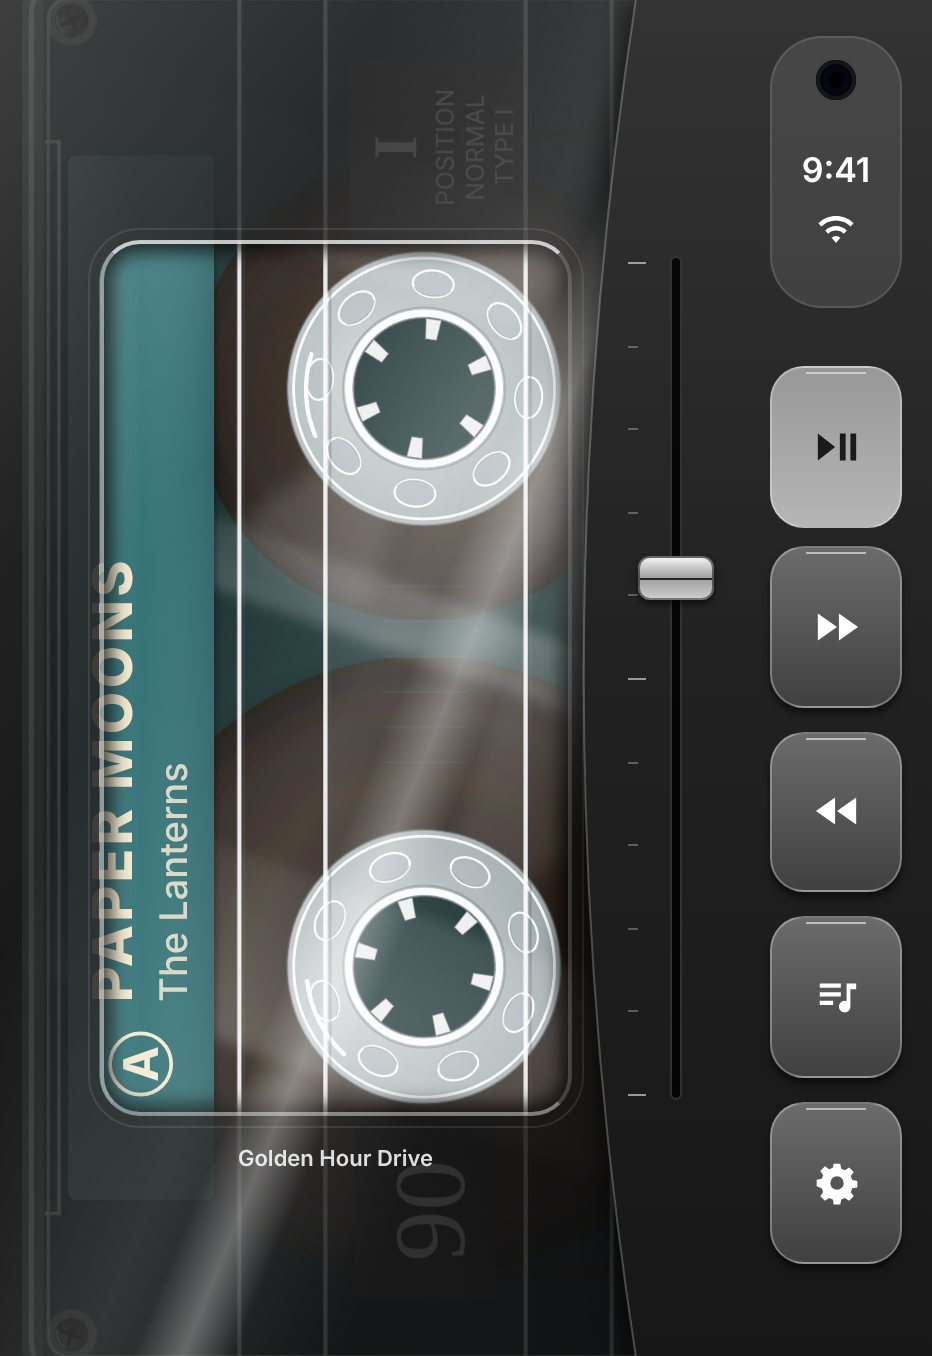
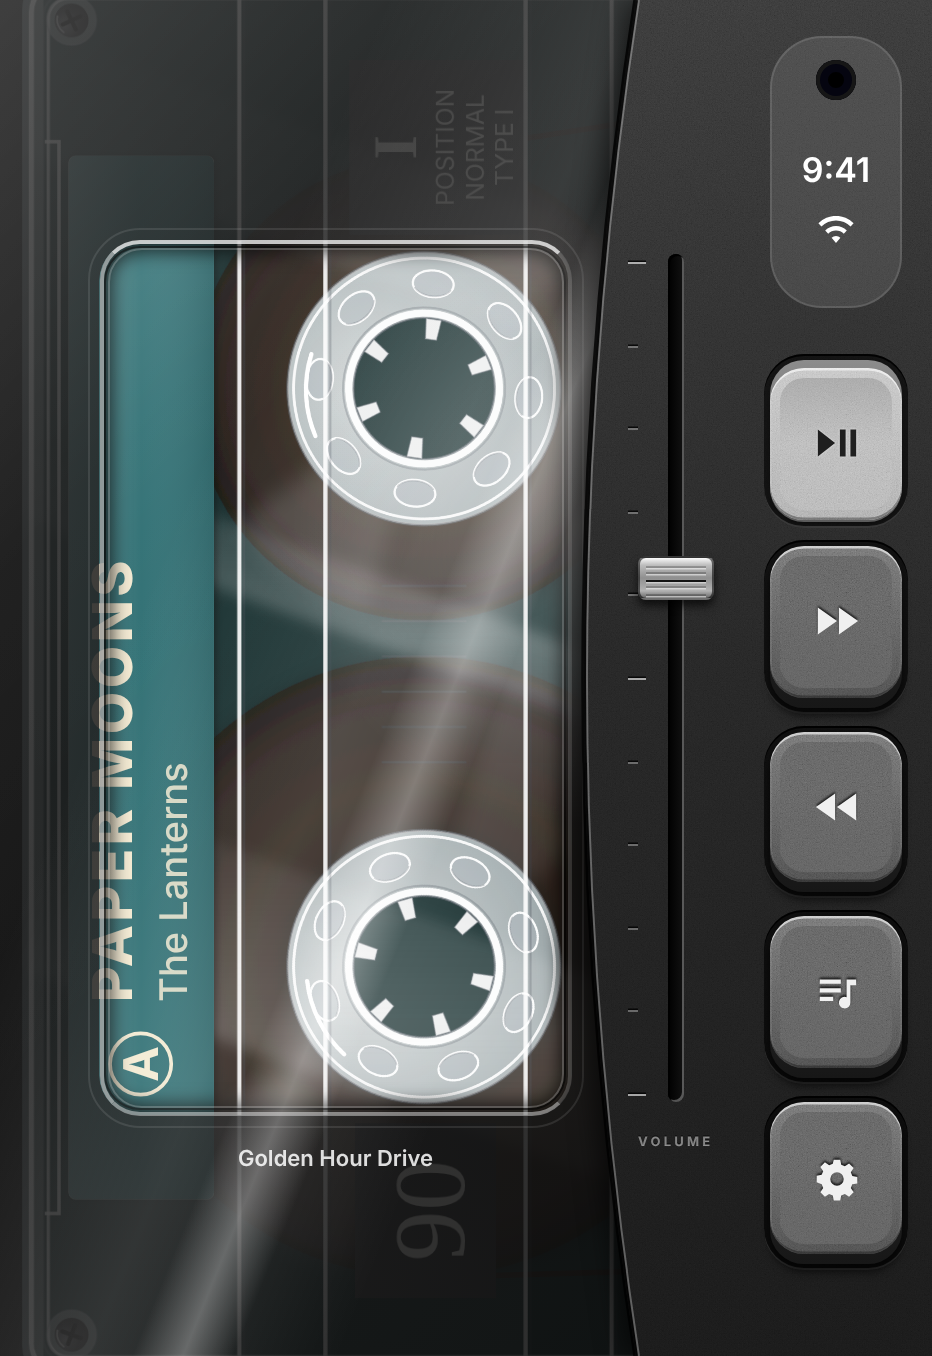
Give the keys, fader, panel and window physical depth and grain
Keys stand proud of wells and sink when pressed, with dished faces and
engraved symbols. The panel has a moulded grain and a cut seam, the
fader has a recessed slot and a ridged metal cap, and the window cut
shows the thickness of the plastic.

Claude-Session: https://claude.ai/code/session_015CNmSEpanpmujmbPK8yXHv

diff --git a/TapeDeck/DeckView.swift b/TapeDeck/DeckView.swift
@@ -85,9 +85,19 @@ struct DeckView: View {
             }
             // Volume: on the solid panel, level with the window and as tall as it
             .overlay(alignment: .topLeading) {
+                let faderX = railLeading ? panelWidth - 70 : full.width - panelWidth + 22
                 VolumeFader(volume: volume)
                     .frame(width: 48, height: window.height)
-                    .offset(x: railLeading ? panelWidth - 70 : full.width - panelWidth + 22, y: window.minY)
+                    .offset(x: faderX, y: window.minY)
+                // Engraved under the fader
+                Text("VOLUME")
+                    .font(.system(size: 6.5, weight: .bold))
+                    .tracking(1.6)
+                    .foregroundColor(Color.white.opacity(0.5))
+                    .shadow(color: .black.opacity(0.8), radius: 0.3, y: -0.7)
+                    .frame(width: 48)
+                    .offset(x: faderX, y: window.maxY + 9)
+                    .accessibilityHidden(true)
             }
             .ignoresSafeArea()
         }
@@ -155,6 +165,11 @@ struct DeckView: View {
                                                                  Color.white.opacity(0.45)],
                                                         startPoint: .topLeading, endPoint: .bottomTrailing),
                                          lineWidth: 2.5)
+                    // The cut has thickness: a dark inner face and a second lit lip
+                    opening.strokeBorder(Color.black.opacity(0.55), lineWidth: 1.5).padding(2.5)
+                    RoundedRectangle(cornerRadius: 17)
+                        .strokeBorder(Color.white.opacity(0.22), lineWidth: 1)
+                        .padding(4)
                     opening.strokeBorder(Color.white.opacity(0.10), lineWidth: 1).padding(-6)
                 }
                 .frame(width: window.width, height: window.height)
@@ -270,9 +285,13 @@ struct DeckView: View {
             edge.fill(LinearGradient(colors: [Color.white.opacity(0.07), .clear],
                                      startPoint: seamOnLeading ? .leading : .trailing,
                                      endPoint: .center))
-            // The seam, following the curve
+            PlasticGrain(strength: 0.5).clipShape(edge)
+            // The seam, following the curve: a dark cut with a lit lip
             BowedPanel(bow: 26, bowOnLeading: seamOnLeading, edgeOnly: true)
-                .stroke(Color.white.opacity(0.24), lineWidth: 1)
+                .stroke(Color.black.opacity(0.8), lineWidth: 2.5)
+            BowedPanel(bow: 26, bowOnLeading: seamOnLeading, edgeOnly: true)
+                .stroke(Color.white.opacity(0.30), lineWidth: 1)
+                .offset(x: seamOnLeading ? 1.6 : -1.6)
         }
         .shadow(color: .black.opacity(0.65), radius: 7, x: seamOnLeading ? -3 : 3)
     }
@@ -451,6 +470,9 @@ struct TapeKey: View {
 
     @State private var pressed = false
 
+    /// How far the key moves when pressed.
+    private let travel: CGFloat = 5
+
     var body: some View {
         let down = pressed || latched
         VStack(spacing: 4) {
@@ -459,25 +481,39 @@ struct TapeKey: View {
                 Text(label).font(.system(size: 7, weight: .heavy)).lineLimit(1).minimumScaleFactor(0.6)
             }
         }
-        .foregroundColor(accent ? Color(white: 0.10) : .white)
+        // The symbol is engraved and filled with paint, so it has a thin
+        // edge of shadow or light where the cut catches it.
+        .foregroundColor(accent ? Color(white: 0.12) : Color(white: 0.94))
+        .shadow(color: accent ? Color.white.opacity(0.65) : Color.black.opacity(0.75),
+                radius: 0.4, y: accent ? 0.8 : -0.8)
         .padding(.horizontal, 2)
         .frame(maxWidth: .infinity)
-        .frame(height: height)
+        // The face is shorter than the key, leaving its side showing below.
+        .frame(height: height - travel)
+        .background(KeyCap(corner: corner, colors: keyColors(down: down)))
+        // Pressed, the face sinks until the side is hidden.
+        .offset(y: down ? travel - 1 : 0)
+        .frame(height: height, alignment: .top)
         .background(
+            // The side of the key
             RoundedRectangle(cornerRadius: corner)
-                .fill(LinearGradient(colors: keyColors(down: down), startPoint: .top, endPoint: .bottom))
+                .fill(LinearGradient(colors: accent ? [Color(white: 0.55), Color(white: 0.36)]
+                                                    : [Color(white: 0.17), Color(white: 0.09)],
+                                     startPoint: .top, endPoint: .bottom))
+                .shadow(color: .black.opacity(down ? 0.25 : 0.6), radius: down ? 1.5 : 4, y: down ? 1 : 4)
         )
-        .overlay(RoundedRectangle(cornerRadius: corner).strokeBorder(Color.white.opacity(0.30), lineWidth: 0.75))
-        // Light catching the moulded top edge
-        .overlay(alignment: .top) {
-            Capsule()
-                .fill(Color.white.opacity(0.55))
-                .frame(height: 1)
-                .padding(.horizontal, corner)
-                .padding(.top, 2)
-        }
-        .offset(y: down ? 3 : 0)
-        .shadow(color: .black.opacity(down ? 0.1 : 0.5), radius: down ? 1 : 3, y: down ? 1 : 3)
+        .background(
+            // The well the key sits in, cut into the panel
+            RoundedRectangle(cornerRadius: corner + 3)
+                .fill(Color.black.opacity(0.6))
+                .overlay(
+                    RoundedRectangle(cornerRadius: corner + 3)
+                        .strokeBorder(LinearGradient(colors: [Color.black.opacity(0.9), Color.white.opacity(0.16)],
+                                                     startPoint: .top, endPoint: .bottom),
+                                      lineWidth: 1)
+                )
+                .padding(-3)
+        )
         .animation(.easeOut(duration: 0.08), value: down)
         .contentShape(Rectangle())
         .gesture(
@@ -505,15 +541,52 @@ struct TapeKey: View {
 
     private func keyColors(down: Bool) -> [Color] {
         if accent {
-            // The play key: plain bright plastic, so it stands out without colour
+            // The play key: plain pale plastic, so it stands out without colour
             return down
-                ? [Color(white: 0.62).opacity(0.95), Color(white: 0.74).opacity(0.95)]
-                : [Color(white: 0.96).opacity(0.95), Color(white: 0.74).opacity(0.95)]
+                ? [Color(white: 0.74), Color(white: 0.64)]
+                : [Color(white: 0.92), Color(white: 0.74)]
         }
-        // Solid plastic, like the panel the keys sit in
+        // Dark plastic, like the panel the keys sit in
         return down
-            ? [Color(white: 0.15), Color(white: 0.21)]
-            : [Color(white: 0.42), Color(white: 0.25)]
+            ? [Color(white: 0.30), Color(white: 0.22)]
+            : [Color(white: 0.41), Color(white: 0.28)]
+    }
+}
+
+/// The top face of a key: moulded plastic with a fine grain, a slightly
+/// dished middle, and an edge that is lit from above.
+private struct KeyCap: View {
+    let corner: CGFloat
+    let colors: [Color]
+
+    var body: some View {
+        let shape = RoundedRectangle(cornerRadius: corner)
+        ZStack {
+            shape.fill(LinearGradient(colors: colors, startPoint: .top, endPoint: .bottom))
+            PlasticGrain().clipShape(shape)
+            // The dish: shaded at the top of the hollow, lit at the bottom
+            RoundedRectangle(cornerRadius: max(2, corner - 5))
+                .fill(LinearGradient(colors: [Color.black.opacity(0.14), .clear, Color.white.opacity(0.09)],
+                                     startPoint: .top, endPoint: .bottom))
+                .padding(5)
+            shape.strokeBorder(LinearGradient(colors: [Color.white.opacity(0.62), Color.white.opacity(0.08),
+                                                       Color.black.opacity(0.32)],
+                                              startPoint: .top, endPoint: .bottom),
+                               lineWidth: 1.2)
+        }
+    }
+}
+
+/// Fine moulded grain, laid over a plastic surface.
+struct PlasticGrain: View {
+    var strength = 0.45
+
+    var body: some View {
+        Image("Grain")
+            .resizable(resizingMode: .tile)
+            .blendMode(.overlay)
+            .opacity(strength)
+            .allowsHitTesting(false)
     }
 }
 

diff --git a/TapeDeck/VolumeFader.swift b/TapeDeck/VolumeFader.swift
@@ -82,37 +82,59 @@ struct VolumeFader: View {
             let travel = max(1, geo.size.height - capHeight)
             let capTop = CGFloat(1 - volume.level) * travel
             ZStack(alignment: .top) {
-                // Tick marks down the left of the groove
+                // Tick marks engraved down the left of the slot
                 VStack(spacing: 0) {
                     ForEach(0..<11, id: \.self) { tick in
                         Rectangle()
-                            .fill(Color.white.opacity(tick % 5 == 0 ? 0.55 : 0.28))
+                            .fill(Color.white.opacity(tick % 5 == 0 ? 0.6 : 0.32))
                             .frame(width: tick % 5 == 0 ? 9 : 5, height: 1)
+                            .shadow(color: .black.opacity(0.8), radius: 0, y: -0.75)
                         if tick < 10 { Spacer(minLength: 0) }
                     }
                 }
                 .padding(.vertical, capHeight / 2)
                 .frame(maxWidth: .infinity, alignment: .leading)
 
-                // The groove
+                // The slot, cut into the panel: dark inside, shadowed along
+                // its upper lip and lit along its lower one
                 Capsule()
-                    .fill(Color.black.opacity(0.85))
-                    .overlay(Capsule().strokeBorder(Color.white.opacity(0.18), lineWidth: 0.75))
-                    .frame(width: 6)
-                    .padding(.vertical, capHeight / 2 - 3)
+                    .fill(LinearGradient(colors: [Color.black, Color(white: 0.07)],
+                                         startPoint: .leading, endPoint: .trailing))
+                    .overlay(
+                        Capsule().strokeBorder(LinearGradient(colors: [Color.black, Color.white.opacity(0.30)],
+                                                              startPoint: .topLeading, endPoint: .bottomTrailing),
+                                               lineWidth: 1)
+                    )
+                    .frame(width: 8)
+                    .padding(.vertical, capHeight / 2 - 4)
                     .frame(maxWidth: .infinity)
 
-                // The cap
-                RoundedRectangle(cornerRadius: 6)
-                    .fill(LinearGradient(colors: [Color(white: 0.95), Color(white: 0.62), Color(white: 0.80)],
-                                         startPoint: .top, endPoint: .bottom))
-                    .overlay(Rectangle().fill(Color(white: 0.15)).frame(height: 1.5))
-                    .overlay(RoundedRectangle(cornerRadius: 6).strokeBorder(Color.black.opacity(0.5), lineWidth: 0.75))
-                    .frame(width: capWidth, height: capHeight)
-                    .shadow(color: .black.opacity(0.55), radius: 3, y: 2)
-                    // Centred on the groove
-                    .offset(y: capTop)
-                    .frame(maxWidth: .infinity)
+                // The cap: brushed metal with grip ridges and a marker line
+                ZStack {
+                    RoundedRectangle(cornerRadius: 4)
+                        .fill(LinearGradient(stops: [
+                            .init(color: Color(white: 0.98), location: 0),
+                            .init(color: Color(white: 0.74), location: 0.18),
+                            .init(color: Color(white: 0.56), location: 0.5),
+                            .init(color: Color(white: 0.70), location: 0.82),
+                            .init(color: Color(white: 0.40), location: 1)
+                        ], startPoint: .top, endPoint: .bottom))
+                    VStack(spacing: 2.5) {
+                        ForEach(0..<5, id: \.self) { ridge in
+                            Rectangle()
+                                .fill(ridge == 2 ? Color(white: 0.08) : Color.black.opacity(0.22))
+                                .frame(height: ridge == 2 ? 1.5 : 1)
+                                .shadow(color: .white.opacity(0.5), radius: 0, y: 0.75)
+                        }
+                    }
+                    .padding(.horizontal, 3)
+                    RoundedRectangle(cornerRadius: 4).strokeBorder(Color.black.opacity(0.55), lineWidth: 0.75)
+                }
+                .frame(width: capWidth, height: capHeight)
+                .shadow(color: .black.opacity(0.65), radius: 4, y: 3)
+                // Centred on the slot
+                .offset(y: capTop)
+                .frame(maxWidth: .infinity)
             }
             .contentShape(Rectangle())
             .gesture(

diff --git a/tools/cassette-art.html b/tools/cassette-art.html
@@ -2,7 +2,8 @@
 <!-- Source artwork for the clear cassette. Rendered to PNG by tools/render-art.js.
      ?layer=front  everything on the front of the clear shell: edges, ribs, stickers,
                    label strip, rollers, screws and reflections (the plastic itself is see-through)
-     ?layer=hub    one clear reel hub -->
+     ?layer=hub    one clear reel hub
+     ?layer=grain  a tile of plastic grain -->
 <html><body style="margin:0;background:transparent"><script>
 const query = new URLSearchParams(location.search);
 const layer = query.get('layer') || 'front';
@@ -114,5 +115,13 @@ ${pockets}
 ${teeth}
 <path d="M2.6 6A8.4 8.4 0 0 1 7 2.2" fill="none" stroke="#fff" stroke-width=".3" stroke-linecap="round"/>
 </svg>`;
-document.body.innerHTML = layer === 'hub' ? hub : front;
+// A tile of fine speckle, laid over plastic surfaces to give them a moulded grain.
+const grain = `
+<svg xmlns="http://www.w3.org/2000/svg" width="${W}" height="${W}">
+<filter id="g" x="0" y="0" width="100%" height="100%">
+  <feTurbulence type="fractalNoise" baseFrequency="0.85" numOctaves="2" seed="11" stitchTiles="stitch"/>
+  <feColorMatrix type="matrix" values=".6 .6 .6 0 -.4  .6 .6 .6 0 -.4  .6 .6 .6 0 -.4  0 0 0 0 1"/>
+</filter>
+<rect width="100%" height="100%" filter="url(#g)"/></svg>`;
+document.body.innerHTML = layer === 'hub' ? hub : layer === 'grain' ? grain : front;
 </script></body></html>

diff --git a/tools/render-art.js b/tools/render-art.js
@@ -12,6 +12,7 @@ const path = require('path');
     // a small copy for the lock screen, where large images are refused
     ['front', 600, 378, '../../TapeDeckWidgets/Assets.xcassets/CassetteFrontSmall.imageset/cassette-front-small.png'],
     ['hub', 480, 480, 'ReelHub.imageset/reel-hub.png'],
+    ['grain', 384, 384, 'Grain.imageset/grain.png'],
   ]) {
     const tab = await browser.newPage({ viewport: { width: w, height: h }, deviceScaleFactor: 1 });
     await tab.goto(page + '?layer=' + layer + '&w=' + w);

diff --git a/README.md b/README.md
@@ -6,7 +6,7 @@ A cassette player for Apple Music. Your playlists and albums are tapes on a shel
 
 * Plays your Apple Music library and anything from the Apple Music catalogue (MusicKit).
 * Closed phone (or any ordinary phone screen): the whole screen is the body of a tape player with the cassette inside it. The cassette is as large as the screen allows and runs underneath the body and the keys. The smoked casing covers most of it, dimly showing what is underneath, and a clear window over the label and reels shows the tape itself. Colours are neutral throughout: greys, black and off-white. Glare on the body moves only when the phone moves: reflections slide as it tilts left and right, and a hot spot follows both tilts.
-* Built for the iPhone Duo's outer display, 466 x 678 points. iOS reserves an 84 point column down one side for the camera, clock and status icons; five large keys (play/pause, fast forward, rewind, tape library, settings) sit in that column underneath them, on a solid plastic panel that is not see-through. There is no stop key: pause stops the music and keeps your place. On other phones the keys get their own strip. The solid panel's inner edge is a shallow curve that comes closest to the tape window at mid height. A vertical volume fader stands on the panel beside the keys, exactly as tall as the window. Settings has switches for the tape deck sounds and the haptics. It sets the phone's volume and follows the side buttons.
+* Built for the iPhone Duo's outer display, 466 x 678 points. iOS reserves an 84 point column down one side for the camera, clock and status icons; five large keys (play/pause, fast forward, rewind, tape library, settings) sit in that column underneath them, on a solid plastic panel that is not see-through. There is no stop key: pause stops the music and keeps your place. On other phones the keys get their own strip. The panel, keys and fader are drawn as moulded parts: grained plastic, keys that stand proud of wells cut into the panel and sink when pressed, engraved symbols, and a metal fader cap in a recessed slot. The solid panel's inner edge is a shallow curve that comes closest to the tape window at mid height. A vertical volume fader stands on the panel beside the keys, exactly as tall as the window. Settings has switches for the tape deck sounds and the haptics. It sets the phone's volume and follows the side buttons.
 * Haptics: a firm tap when a key goes down, a lighter one when it springs back, a heavy thud for the cassette door, and a soft pulse four times a second while the tape winds.
 * The cassette is a clear one. The shell front is see-through artwork (bright moulded edges and ridges, stickers, a stick-on paper label, guide rollers, black screws, reflections). Under it the whole reels, their clear hubs, the tape running down to the rollers and the handwriting on the label are drawn live. The artwork source is `tools/cassette-art.html`; `node tools/render-art.js` re-renders it.
 * Open phone (a large, wide screen): the tape shelf on the left and the chosen tape on the right. The shelf shows each playlist and album as a cassette spine: an off-white card with the name handwritten on it and a grey band. Pick a tape, then close the phone to start it playing. The same keys as on the closed phone are there in a row (play/pause, fast forward, rewind, eject, settings), for screens that cannot fold.
